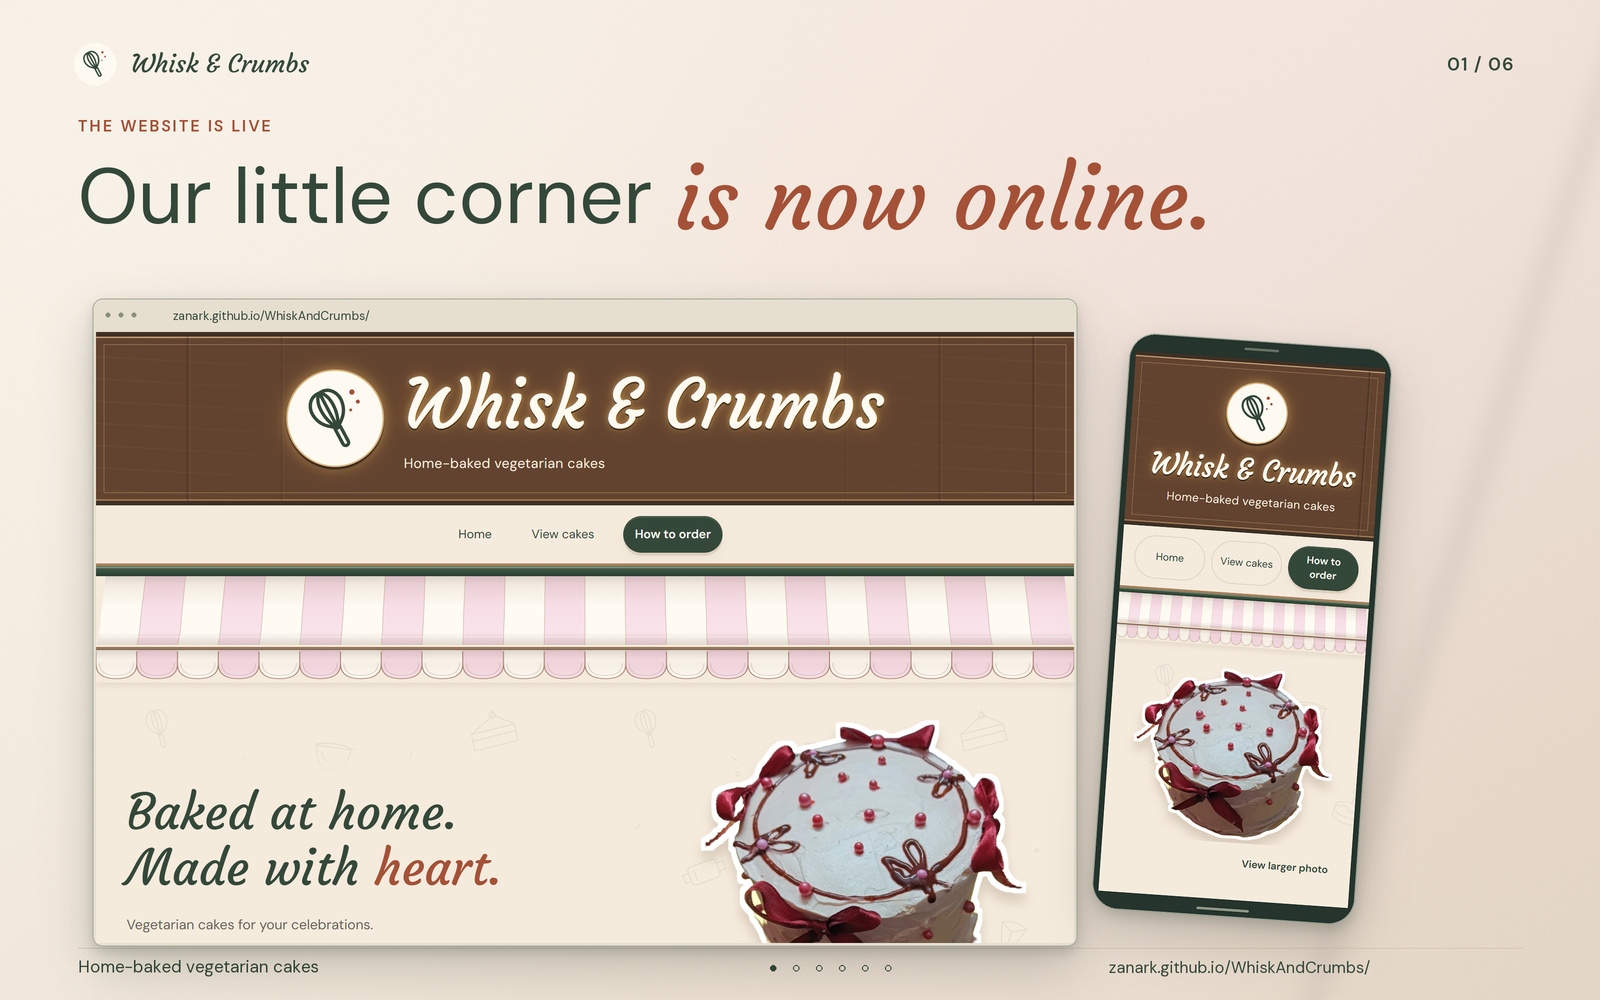
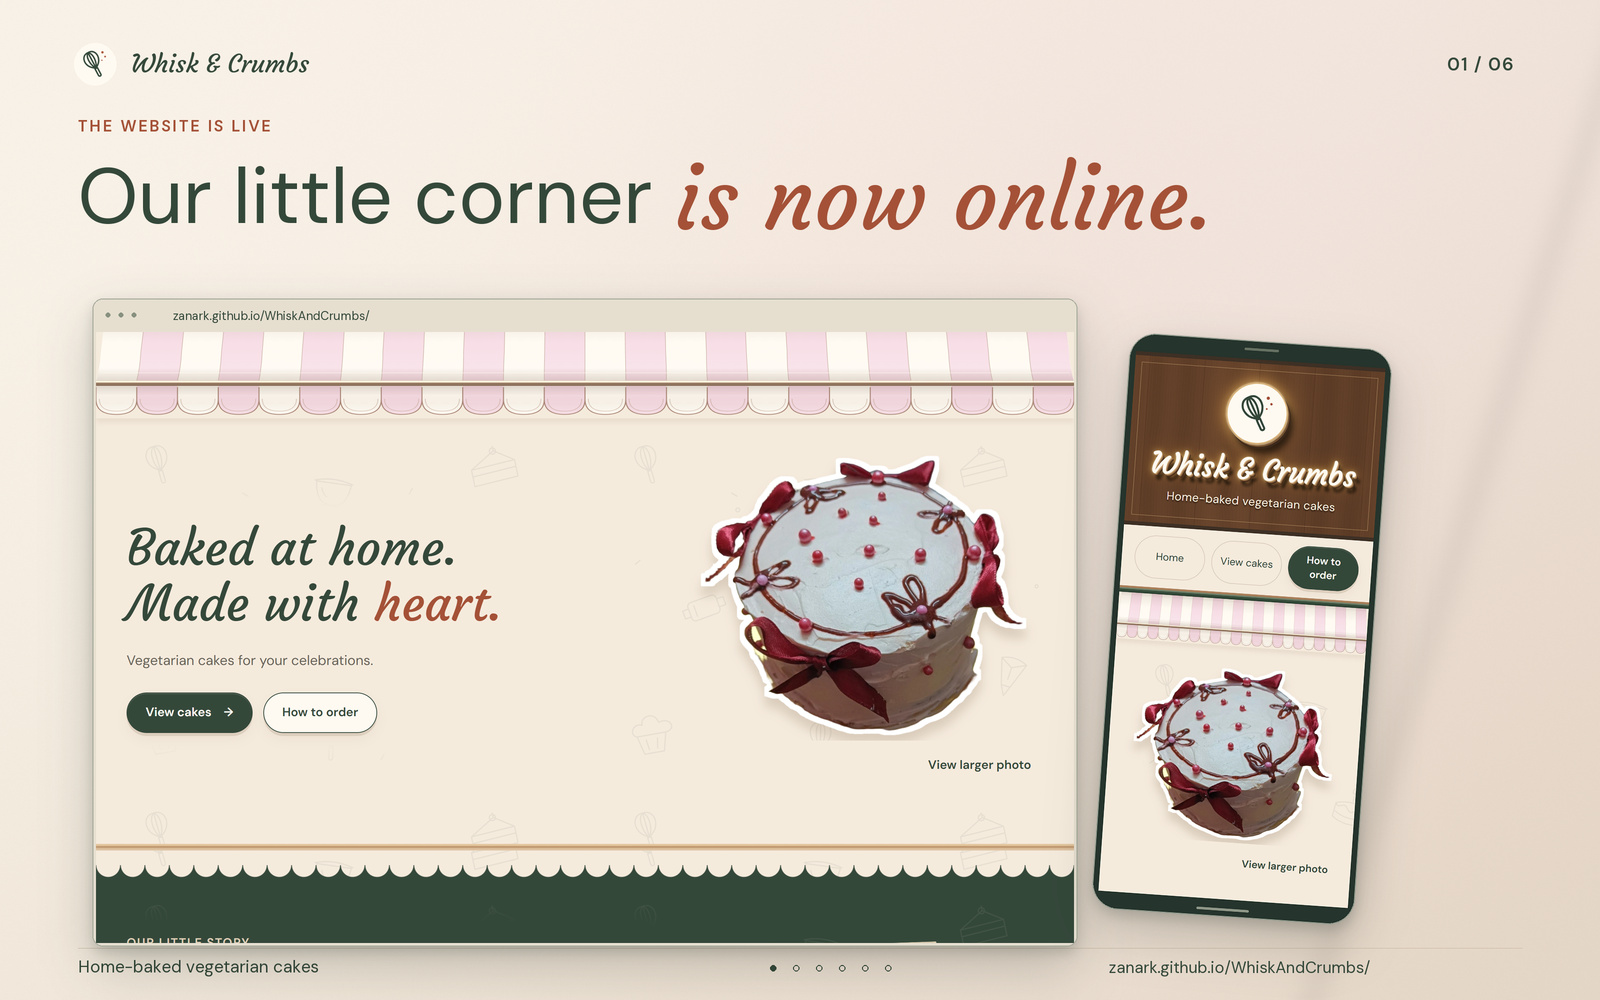
Keep continuous wood grain beneath raised illuminated branding
Remove the center texture fade, add original opaque wood grain and clearer letter/logo depth with cast shadows and warm steady light. Preserve the font, mark and layout; refresh the welcome showcase.

Copilot-Session: 065222f9-e445-4b98-a549-e6948580c174

Changed region(s): [[0.0625, 0.31, 0.6875, 0.961], [0.7188, 0.434, 0.8438, 0.496]]

diff --git a/site/index.html b/site/index.html
@@ -22,14 +22,14 @@
   <link rel="icon" href="assets/favicon.svg" type="image/svg+xml" sizes="any">
   <link rel="apple-touch-icon" href="assets/apple-touch-icon.png" sizes="180x180">
   <link rel="preload" href="assets/fonts/courgette-regular.ttf" as="font" type="font/ttf" crossorigin>
-  <link rel="stylesheet" href="styles.css?v=6170092be017">
-  <link rel="stylesheet" href="entrance-shop.css?v=6170092be017">
-  <link rel="stylesheet" href="cozy-bakery.css?v=6170092be017">
-  <link rel="stylesheet" href="readability.css?v=6170092be017">
-  <link rel="modulepreload" href="entrance.mjs?v=6170092be017">
-  <link rel="modulepreload" href="bell.mjs?v=6170092be017">
-  <link rel="modulepreload" href="notebooks.mjs?v=6170092be017">
-  <script type="module" src="main.mjs?v=6170092be017"></script>
+  <link rel="stylesheet" href="styles.css?v=3dc58f859194">
+  <link rel="stylesheet" href="entrance-shop.css?v=3dc58f859194">
+  <link rel="stylesheet" href="cozy-bakery.css?v=3dc58f859194">
+  <link rel="stylesheet" href="readability.css?v=3dc58f859194">
+  <link rel="modulepreload" href="entrance.mjs?v=3dc58f859194">
+  <link rel="modulepreload" href="bell.mjs?v=3dc58f859194">
+  <link rel="modulepreload" href="notebooks.mjs?v=3dc58f859194">
+  <script type="module" src="main.mjs?v=3dc58f859194"></script>
 </head>
 <body>
   <a class="skip-link" href="#main">Skip to cakes and ordering</a>
@@ -40,7 +40,7 @@
         <div class="entrance-sign">
           <img src="assets/whisk-and-crumbs-logo.png" width="380" height="86" alt="">
         </div>
-        <div class="entrance-awning"><img src="assets/bakery-awning.svg?v=6170092be017" width="1200" height="180" alt="" decoding="async"></div>
+        <div class="entrance-awning"><img src="assets/bakery-awning.svg?v=3dc58f859194" width="1200" height="180" alt="" decoding="async"></div>
         <div class="entrance-doorway">
           <div class="entrance-bell-mount"></div>
           <svg class="entrance-bell" viewBox="0 0 64 68" width="64" height="68" fill="none" focusable="false">
@@ -53,9 +53,9 @@
           <div class="entrance-doorframe">
             <div class="entrance-room">
               <picture class="entrance-room-poster">
-                <source media="(max-aspect-ratio: 4/5)" srcset="assets/bakery-interior-portrait.webp?v=6170092be017">
-                <source media="(max-height: 600px)" srcset="assets/bakery-interior-short.webp?v=6170092be017">
-                <img src="assets/bakery-interior-wide.webp?v=6170092be017" width="1600" height="1000" alt="" decoding="async">
+                <source media="(max-aspect-ratio: 4/5)" srcset="assets/bakery-interior-portrait.webp?v=3dc58f859194">
+                <source media="(max-height: 600px)" srcset="assets/bakery-interior-short.webp?v=3dc58f859194">
+                <img src="assets/bakery-interior-wide.webp?v=3dc58f859194" width="1600" height="1000" alt="" decoding="async">
               </picture>
             </div>
             <div class="entrance-door entrance-door-left">
@@ -79,7 +79,7 @@
   </div>
   <noscript><style>.bakery-entrance { display: none !important; }</style></noscript>
   <header class="site-header">
-    <div class="shop-sign">
+    <div class="shop-sign" style="--sign-wood:url('assets/bakery-sign-wood.webp?v=3dc58f859194')">
       <div class="container header-inner">
         <a class="brand" href="#home" aria-label="Whisk &amp; Crumbs - home">
           <img src="assets/whisk-and-crumbs-mark.svg" width="128" height="128" alt="">
@@ -93,7 +93,7 @@
       <a class="button nav-cta" href="#order">How to order</a>
     </nav>
   </header>
-  <div class="site-awning" aria-hidden="true"><img src="assets/bakery-awning.svg?v=6170092be017" width="1200" height="180" alt="" decoding="async"></div>
+  <div class="site-awning" aria-hidden="true"><img src="assets/bakery-awning.svg?v=3dc58f859194" width="1200" height="180" alt="" decoding="async"></div>
 
   <main id="main" tabindex="-1">
     <section class="hero-section" id="home" aria-labelledby="hero-title">
@@ -651,7 +651,7 @@
         </div>
       </div>
     </section>
-    <div class="bakery-shelf" aria-hidden="true"><img src="assets/bakery-shelf.svg?v=6170092be017" width="960" height="120" alt="" loading="lazy" decoding="async"></div>
+    <div class="bakery-shelf" aria-hidden="true"><img src="assets/bakery-shelf.svg?v=3dc58f859194" width="960" height="120" alt="" loading="lazy" decoding="async"></div>
   </main>
 
   <footer class="container site-footer">

diff --git a/site/cozy-bakery.css b/site/cozy-bakery.css
@@ -12,10 +12,7 @@
   position: absolute;
   inset: 0;
   z-index: -1;
-  background:
-    repeating-linear-gradient(90deg, transparent 0 118px, rgb(30 19 12 / 30%) 119px 121px, rgb(255 228 184 / 10%) 122px 123px),
-    repeating-linear-gradient(3deg, transparent 0 13px, rgb(255 226 182 / 5%) 14px, transparent 16px 29px);
-  mask-image: linear-gradient(90deg, #000, transparent 28% 72%, #000);
+  background: var(--sign-wood) center / cover no-repeat;
   pointer-events: none;
 }
 .shop-sign::after { content: ""; position: absolute; inset: 10px; border: 1px solid rgb(225 188 132 / 36%); pointer-events: none; }
@@ -28,15 +25,22 @@
   border: 2px solid #d9b47c;
   border-radius: 50%;
   background: var(--paper);
-  box-shadow: 0 3px 2px #2e2017, 0 0 14px rgb(255 205 116 / 45%), 0 0 34px rgb(255 184 74 / 20%);
+  box-shadow:
+    1px 2px 0 #b99a70, 3px 4px 0 #765333, 5px 7px 0 #3c291b,
+    10px 15px 10px rgb(15 9 4 / 72%),
+    0 0 3px #fff3d5, 0 0 19px rgb(255 205 116 / 70%), 0 0 42px rgb(255 169 53 / 38%);
 }
 .shop-sign .wordmark {
   color: var(--paper);
   font-size: 5.5rem;
   line-height: 1.2;
-  text-shadow: 0 1px 0 #fff1d1, 0 3px 1px #2e2017, 0 0 9px rgb(255 205 116 / 55%), 0 0 24px rgb(255 184 74 / 35%);
+  text-shadow:
+    0 -1px 0 #fffdf6, 1px 1px 0 #d4b184, 2px 2px 0 #a68055,
+    3px 3px 0 #785232, 4px 4px 0 #432b1a,
+    7px 10px 5px rgb(14 8 3 / 82%),
+    0 0 3px #fff0c0, 0 0 11px rgb(255 203 98 / 85%), 0 0 28px rgb(255 165 50 / 50%);
 }
-.shop-sign .brand-descriptor { color: var(--cream); font-size: 1.125rem; margin-top: 12px; }
+.shop-sign .brand-descriptor { color: var(--cream); font-size: 1.125rem; margin-top: 12px; text-shadow: 0 2px 2px rgb(25 15 7 / 75%); }
 .shop-sign .brand:focus-visible { outline-color: var(--paper); outline-offset: 6px; }
 .site-header #site-nav { width: min(1200px, calc(100% - 40px)); margin-inline: auto; padding-block: 14px; justify-content: center; gap: 12px 24px; }
 #site-nav > a:not(.button) { text-decoration-color: #ba8d67; text-underline-offset: 7px; }

diff --git a/ABOUT.md b/ABOUT.md
@@ -35,7 +35,9 @@ The website keeps a simple order: **Home, Our little story, Cakes we've made,
 How to order**. Navigation stays visible on mobile.
 
 At the top, the original whisk mark and Courgette shop name form a larger,
-centered wooden sign with a warm, steady backlit glow. The three navigation
+centered wooden sign with continuous visible grain, raised lettering and a warm,
+steady backlit glow. Distinct cast shadows give the name and logo depth without
+fading the wood behind them. The three navigation
 links sit underneath on cream, above the full-width canopy. The glow does not
 flash or animate; the original font and logo artwork are retained.
 
@@ -125,7 +127,7 @@ The display name is **Whisk & Crumbs**. The owner renamed the repository to
 [Zanark/WhiskAndCrumbs](https://github.com/Zanark/WhiskAndCrumbs).
 The website is **https://zanark.github.io/WhiskAndCrumbs/**.
 
-GitHub Pages publishes only the **168 generated files in `site/`**, including the
+GitHub Pages publishes only the **169 generated files in `site/`**, including the
 category-notebook module, original decorative shop artwork and six landscape website showcase images.
 The image-only README links six coordinated launch images to the website. Each
 uses real, complete desktop and mobile browser viewport captures, with original

diff --git a/README.md b/README.md
@@ -1,4 +1,4 @@
-[![Our little corner is now online: real desktop and mobile views of the Whisk & Crumbs home page in an original cream launch composition.](site/assets/showcase/01-welcome.jpg?v=f85ddd402c08)](https://zanark.github.io/WhiskAndCrumbs/)
+[![Our little corner is now online: real desktop and mobile views of the continuous wooden panel and raised, warmly backlit Whisk & Crumbs sign.](site/assets/showcase/01-welcome.jpg?v=145b7315a3f2)](https://zanark.github.io/WhiskAndCrumbs/)
 
 [![Come on in: complete desktop and mobile browser views of the illustrated bakery entrance, presented on a warm forest-green background.](site/assets/showcase/02-bakery-entrance.jpg?v=167119ccf961)](https://zanark.github.io/WhiskAndCrumbs/)
 
